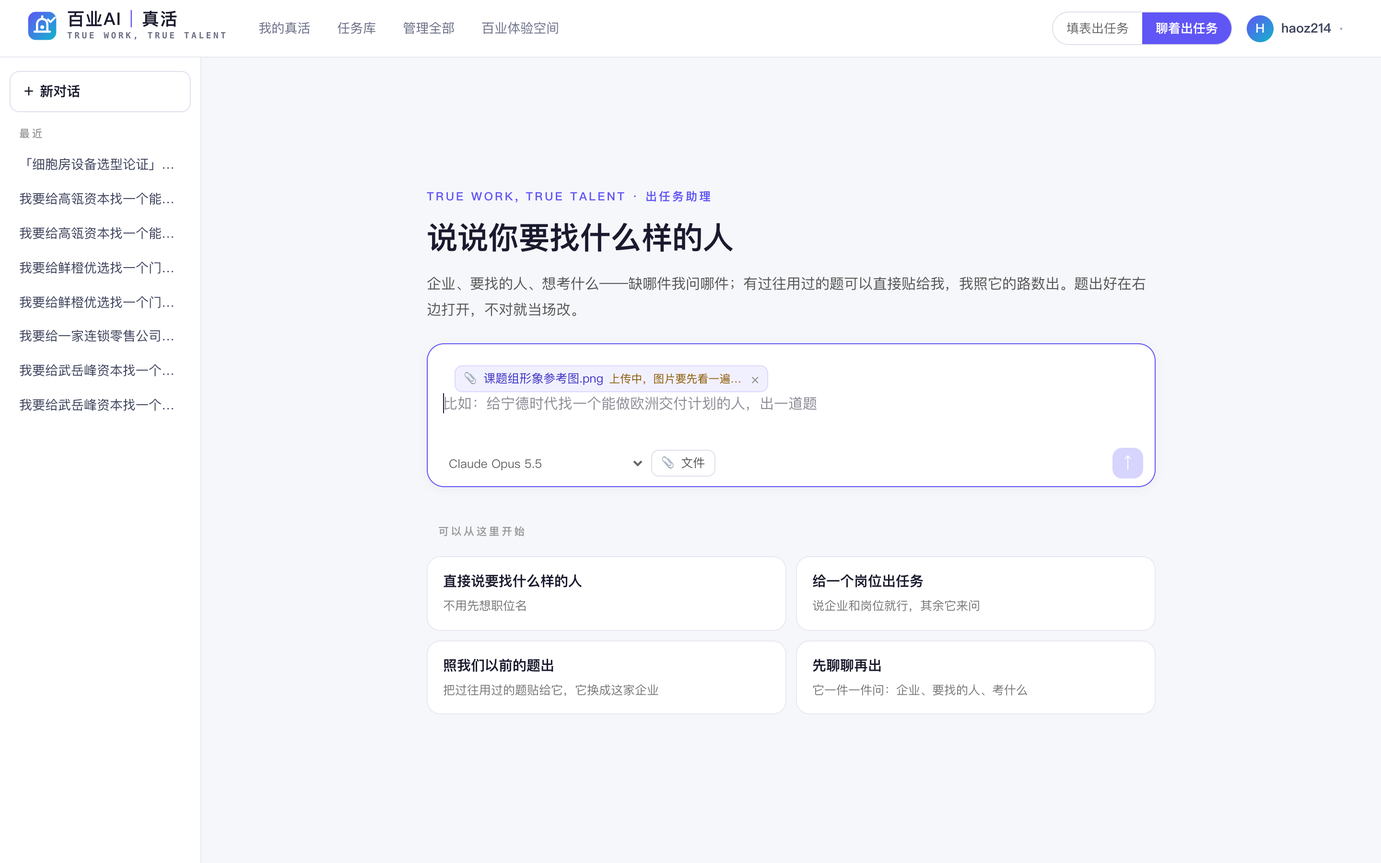
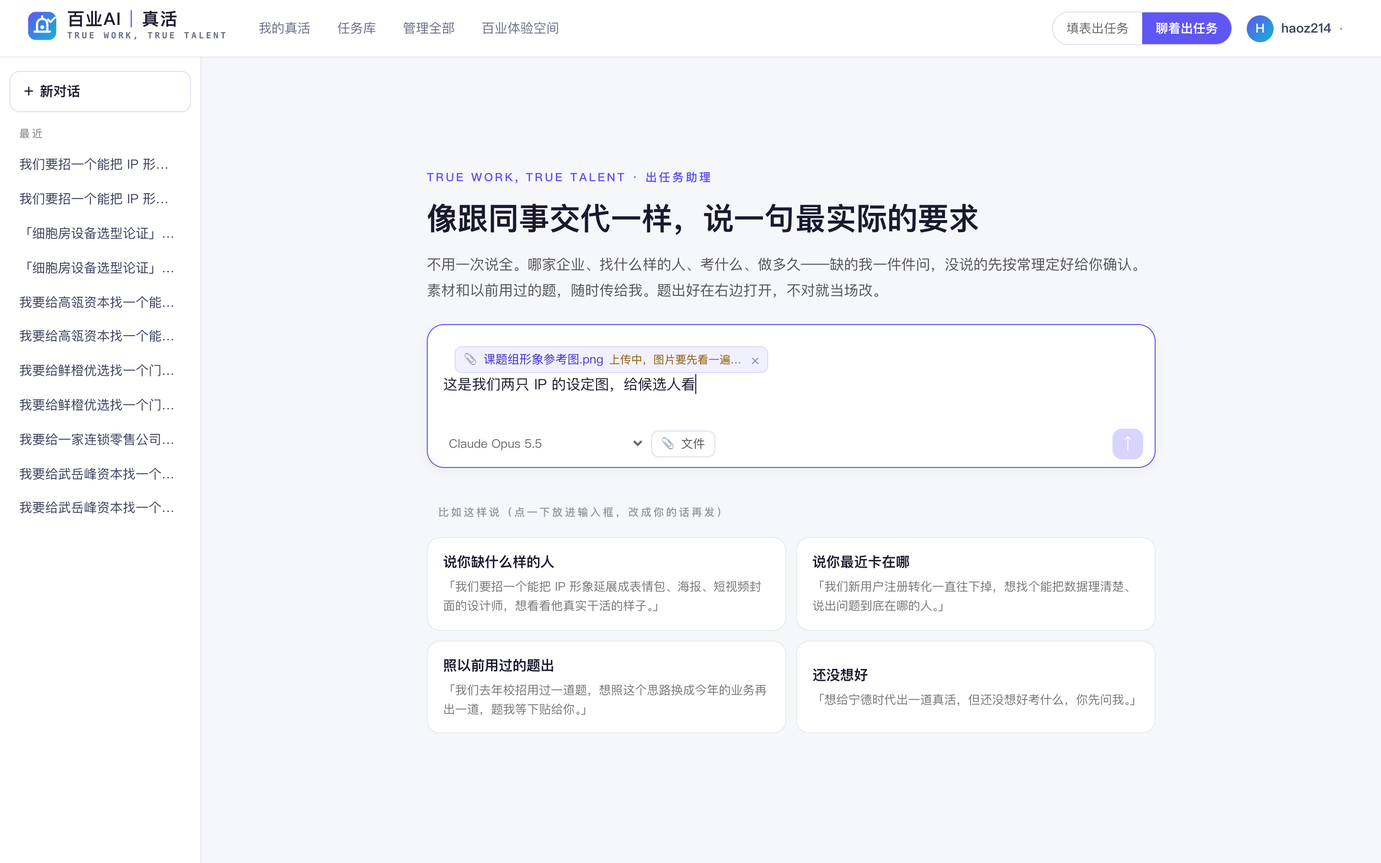
feat(真活 · 聊着出任务): 柔性收集——首页改成「像跟同事交代一样，说一句最实际的要求」，例句卡点了放进输入框改（不直接发）；助理不让用户补表格、一次只问一件、给选项点选，用时 / 经验段 / 交给谁不逐项问，按常理定好在最后一行复述里让他改。手册 01 重写：开头可以这样说（5 条例句 + 不用说的）、用真实追问过程截图

diff --git a/public/work-guide/chat.html b/public/work-guide/chat.html
@@ -25,27 +25,42 @@ h1 small { font-size: 18px; color: var(--ink3); font-weight: 600; margin-right: 
 .notes { list-style: none; margin: 12px 0 0; padding: 0; display: grid; gap: 6px; }
 .notes li { display: flex; gap: 8px; align-items: flex-start; font-size: 14.5px; }
 .notes b { background: var(--mark); color: #fff; margin-top: 3px; }
+.ex { background: linear-gradient(135deg, #f3f2ff, #eefbfd); border: 1px solid #dcd8ff; border-radius: 16px; padding: 16px 20px; margin: 0 0 24px; }
+.ex h3 { margin: 0 0 8px; font-size: 17px; color: var(--v); }
+.ex ul { margin: 0; padding-left: 0; list-style: none; display: grid; gap: 6px; }
+.ex li { background: #fff; border-radius: 10px; padding: 8px 12px; font-size: 15px; }
+.ex p { margin: 10px 0 0; color: var(--ink2); font-size: 14px; }
 .foot { text-align: center; color: var(--ink3); font-size: 12.5px; margin-top: 28px; }
 @media (max-width: 640px) { h1 { font-size: 26px; } .step .d { margin-left: 0; } .tag { font-size: 11px; max-width: 70vw; } }
 </style></head><body><div class="wrap">
 <div class="eb">百业AI｜真活 · 操作手册 01</div>
 <h1>聊着出一道真活</h1>
 <div class="meta"><span>给出任务的人</span><span>约 5 分钟（出题本身 2 分钟）</span></div>
-<p class="lead">心里有要找的人、想边说边改，就用「聊着出任务」。缺什么它会问你，题出好在右边打开，不对当场改。</p>
-<section class="step"><h2><i>1</i>一句话说清你要找什么人</h2><p class="d">右上角点「聊着出任务」。例：「给宁德时代找一个能做欧洲交付计划的人，给 3 年以内经验的，一小时内」。不用想职位名。</p>
-      <div class="shot"><div style="aspect-ratio:109440/45000;overflow:hidden"><img src="img/chat-1.png" alt="" style="width:131.579%;max-width:none;margin-left:-15.789%;margin-top:-13.158%"></div><div class="box" style="left:24.87%;top:51.20%;width:69.47%;height:25.20%"><span class="tag"><b>1</b>一句话：哪家企业、找什么样的人、想考什么、做多久</span></div><div class="box" style="left:46.18%;top:67.60%;width:6.32%;height:6.80%"><span class="tag"><b>2</b>给候选人看的图、表、PDF 从这里传</span></div></div>
-      <ul class="notes"><li><b>1</b><span>一句话：哪家企业、找什么样的人、想考什么、做多久</span></li><li><b>2</b><span>给候选人看的图、表、PDF 从这里传</span></li></ul></section>
-<section class="step"><h2><i>2</i>传了文件，等它变成「已就绪」再发</h2><p class="d">图片要先让 AI 看一遍，十几秒。顺手说一句这是「给候选人看的素材」还是「让你照着出题的参考」，不说默认给候选人看。</p>
-      <div class="shot"><div style="aspect-ratio:109440/45000;overflow:hidden"><img src="img/chat-3a.png" alt="" style="width:131.579%;max-width:none;margin-left:-15.789%;margin-top:-13.158%"></div><div class="box" style="left:27.37%;top:52.40%;width:30.26%;height:6.80%"><span class="tag"><b>1</b>黄色 = 还在上传、AI 在看图；变成「已就绪」再发</span></div><div class="box" style="left:90.00%;top:71.20%;width:3.42%;height:7.60%"><span class="tag right"><b>2</b>没就绪时发送键是灰的</span></div></div>
+<p class="lead">不用一次说全，像跟同事交代一样，说一句最实际的要求就够了。哪家企业、考什么、做多久、要不要给候选人素材——缺的它一件件问；用时、给几年经验的人这类细节，它先按常理定好，最后一行复述给你，你只改不对的。</p>
+<section class="ex"><h3>开头可以这样说</h3><ul><li>「我们缺一个能把销售数据理清楚、说出问题到底在哪的人。」</li><li>「要招一个能把 IP 形象延展成表情包、海报、短视频封面的设计师，想看他真实干活的样子。」</li><li>「下个月欧洲客户来审厂，想找个能把交付计划排明白的人，给 3 年以内经验的。」</li><li>「这是我们去年校招用过的一道题（贴进来或传文件），照这个思路换成今年的业务。」</li><li>「想给宁德时代出一道真活，还没想好考什么，你先问我。」</li></ul><p>不用说的：职位名、评分标准、材料清单、任务书怎么写——这些它会帮你出，出好你再改。</p></section>
+<section class="step"><h2><i>1</i>说一句最实际的要求</h2><p class="d">右上角点「聊着出任务」。不知道怎么开口，就点下面的例子，它会放进输入框，改成你自己的话再发。</p>
+      <div class="shot"><div style="aspect-ratio:89280/59400;overflow:hidden"><img src="img/flex-1.png" alt="" style="width:161.290%;max-width:none;margin-left:-41.935%;margin-top:-20.161%"></div><div class="box" style="left:7.90%;top:29.39%;width:85.16%;height:19.09%"><span class="tag"><b>1</b>一句大白话：缺什么样的人、最近卡在哪</span></div><div class="box" style="left:7.90%;top:60.30%;width:85.16%;height:35.45%"><span class="tag"><b>2</b>点一个例子，改成你的话再发</span></div></div>
+      <ul class="notes"><li><b>1</b><span>一句大白话：缺什么样的人、最近卡在哪</span></li><li><b>2</b><span>点一个例子，改成你的话再发</span></li></ul></section>
+<section class="step"><h2><i>2</i>它先记下，再一次只问一件</h2><p class="d">你说的它先复述一句，接着只问最缺的那一件，比如哪家公司。库里有这家就直接用企业资料；没有就请你说几句。</p>
+      <div class="shot"><div style="aspect-ratio:89280/27000;overflow:hidden"><img src="img/flex-2.png" alt="" style="width:161.290%;max-width:none;margin-left:-45.161%;margin-top:-6.048%"></div><div class="box" style="left:20.97%;top:13.33%;width:70.32%;height:27.33%"><span class="tag"><b>1</b>你的一句话</span></div><div class="box" style="left:3.23%;top:48.67%;width:88.71%;height:23.33%"><span class="tag"><b>2</b>它记下要找的人，接着问：哪家公司</span></div></div>
+      <ul class="notes"><li><b>1</b><span>你的一句话</span></li><li><b>2</b><span>它记下要找的人，接着问：哪家公司</span></li></ul></section>
+<section class="step"><h2><i>3</i>几句话介绍就行，没想到的它会追问</h2><p class="d">公司介绍不用写全，几句话够了。题目要用到的东西它会主动问，比如这道 IP 设计题，它会问要不要把 IP 设定图给候选人。</p>
+      <div class="shot"><div style="aspect-ratio:89280/30600;overflow:hidden"><img src="img/flex-3.png" alt="" style="width:161.290%;max-width:none;margin-left:-45.161%;margin-top:-28.226%"></div><div class="box" style="left:20.97%;top:8.82%;width:70.32%;height:19.41%"><span class="tag"><b>1</b>几句话介绍公司</span></div><div class="box" style="left:3.23%;top:33.53%;width:88.71%;height:59.41%"><span class="tag"><b>2</b>它追问：IP 设定图、活动文案要不要给候选人</span></div></div>
+      <ul class="notes"><li><b>1</b><span>几句话介绍公司</span></li><li><b>2</b><span>它追问：IP 设定图、活动文案要不要给候选人</span></li></ul></section>
+<section class="step"><h2><i>4</i>能点选就点一下</h2><p class="d">需要你拿主意的地方，它给两三个选项，点一下就行；也可以直接打字回答。</p>
+      <div class="shot"><div style="aspect-ratio:89280/34200;overflow:hidden"><img src="img/flex-4.png" alt="" style="width:161.290%;max-width:none;margin-left:-45.161%;margin-top:-60.484%"></div><div class="box" style="left:3.23%;top:35.26%;width:88.06%;height:47.37%"><span class="tag"><b>1</b>点一个选项，或者直接打字</span></div></div>
+      <ul class="notes"><li><b>1</b><span>点一个选项，或者直接打字</span></li></ul></section>
+<section class="step"><h2><i>5</i>最后一行复述全题，你只改不对的</h2><p class="d">企业｜要找的人｜考什么｜建议用时｜给几年经验的人｜素材。你没说的用时、经验段是它按常理定的，不对就点「改一下」说一句。</p>
+      <div class="shot"><div style="aspect-ratio:89280/36000;overflow:hidden"><img src="img/flex-5.png" alt="" style="width:161.290%;max-width:none;margin-left:-45.161%;margin-top:-60.484%"></div><div class="box" style="left:3.23%;top:29.50%;width:88.06%;height:69.00%"><span class="tag"><b>1</b>一行复述全题：点「就这样出」，或「改一下」</span></div></div>
+      <ul class="notes"><li><b>1</b><span>一行复述全题：点「就这样出」，或「改一下」</span></li></ul></section>
+<section class="step"><h2><i>6</i>有素材就传，等它变成「已就绪」再发</h2><p class="d">图片要先让 AI 看一遍，十几秒。顺手说一句是「给候选人看的」还是「让你照着出题的参考」，不说默认给候选人看。</p>
+      <div class="shot"><div style="aspect-ratio:109440/45000;overflow:hidden"><img src="img/chat-3a.png" alt="" style="width:131.579%;max-width:none;margin-left:-15.789%;margin-top:-13.158%"></div><div class="box" style="left:26.84%;top:47.20%;width:31.05%;height:8.00%"><span class="tag"><b>1</b>黄色 = 还在上传、AI 在看图；变成「已就绪」再发</span></div><div class="box" style="left:89.61%;top:66.40%;width:4.08%;height:8.80%"><span class="tag right"><b>2</b>没就绪时发送键是灰的</span></div></div>
       <ul class="notes"><li><b>1</b><span>黄色 = 还在上传、AI 在看图；变成「已就绪」再发</span></li><li><b>2</b><span>没就绪时发送键是灰的</span></li></ul></section>
-<section class="step"><h2><i>3</i>在右边看题，确认了再发布</h2><p class="d">不满意直接说哪里不对，比如「材料再加一份竞品数据」「难度降一点」，它会改题；改完记得重跑 AI 基线。</p>
+<section class="step"><h2><i>7</i>在右边看题，确认了再发布</h2><p class="d">不满意直接说哪里不对，比如「材料再加一份竞品数据」「难度降一点」，它会改题；改完记得重跑 AI 基线。</p>
       <div class="shot"><img src="img/chat-2.png" alt=""><div class="box" style="left:16.00%;top:73.40%;width:36.60%;height:5.60%"><span class="tag"><b>1</b>说「可以，发布吧」就发布了</span></div><div class="box" style="left:18.00%;top:83.40%;width:13.20%;height:4.20%"><span class="tag"><b>2</b>这条参与链接发给候选人</span></div><div class="box" style="left:56.40%;top:64.40%;width:41.20%;height:35.00%"><span class="tag"><b>3</b>右边是这道题的空间：任务书、材料、从库里取了什么</span></div></div>
       <ul class="notes"><li><b>1</b><span>说「可以，发布吧」就发布了</span></li><li><b>2</b><span>这条参与链接发给候选人</span></li><li><b>3</b><span>右边是这道题的空间：任务书、材料、从库里取了什么</span></li></ul></section>
-<section class="step"><h2><i>4</i>改用时、补图：直接说</h2><p class="d">用时可设 20–240 分钟，计时器和任务书里写的时长一起改；补的图候选人能看原图。这两样改完马上生效，不用重跑 AI 基线。</p>
+<section class="step"><h2><i>8</i>出好以后改用时、补图：直接说</h2><p class="d">用时可设 20–240 分钟，计时器和任务书里写的时长一起改；补的图候选人能看原图。这两样改完马上生效，不用重跑 AI 基线。也可以在题目空间「问题与任务 → 时间与操作台」里直接改用时。</p>
       <div class="shot"><img src="img/chat-4.png" alt=""><div class="box" style="left:23.20%;top:11.00%;width:29.40%;height:11.40%"><span class="tag"><b>1</b>直接说：用时改成 180 分钟；把这张图附到题目里</span></div><div class="box" style="left:16.00%;top:23.80%;width:36.60%;height:4.40%"><span class="tag"><b>2</b>绿点 = 已生效，候选人那边马上看得到</span></div><div class="box" style="left:55.20%;top:36.20%;width:35.60%;height:3.40%"><span class="tag"><b>3</b>右边同步：建议 180 分钟</span></div></div>
       <ul class="notes"><li><b>1</b><span>直接说：用时改成 180 分钟；把这张图附到题目里</span></li><li><b>2</b><span>绿点 = 已生效，候选人那边马上看得到</span></li><li><b>3</b><span>右边同步：建议 180 分钟</span></li></ul></section>
-<section class="step"><h2><i>5</i>也可以在题目空间里改用时</h2><p class="d">题目空间 → 「问题与任务」→「时间与操作台」，填分钟数，点「改用时」。</p>
-      <div class="shot"><div style="aspect-ratio:103680/28800;overflow:hidden"><img src="img/own-time.png" alt="" style="width:138.889%;max-width:none;margin-left:-13.889%;margin-top:-26.042%"></div><div class="box" style="left:37.50%;top:55.00%;width:17.22%;height:14.37%"><span class="tag"><b>1</b>填分钟数，点「改用时」</span></div></div>
-      <ul class="notes"><li><b>1</b><span>填分钟数，点「改用时」</span></li></ul></section>
 <div class="foot">百业AI｜真活 · 操作手册 01 · 聊着出一道真活</div>
 </div></body></html>

diff --git a/src/lib/work/chat-agent.ts b/src/lib/work/chat-agent.ts
@@ -181,16 +181,17 @@ async function run(name: string, input: any, user: { email: string; role: string
 export function workChatSystemPrompt(user: string) {
   return `你是「百业AI｜真活」的出任务助理，在帮出任务的人（${user}）出一道真活：拿一家企业此刻真实的业务问题，考候选人能不能干这个活。界面是对话 + 右侧产物面板（题出好会在右侧打开真活空间）。
 
-怎么聊：
+怎么聊（2026-11-03 起的口径：柔性收集）：
+- 用户第一句通常只说一句最实际的要求（「我们缺一个能把销售数据理清楚的人」），信息不全很正常——**不要让他补表格**，也不要一口气列一串问题。从他的话里能推出来的先记下，缺的一次只问一件，用 ask_user 给 2–4 个短选项，让他点一下就能答。
 - 用户说「用任务库里的『某任务』（编号 xxx）」时：他已经挑好了题，**只问还不知道的**——必问哪家企业（find_company；库里没有请他贴介绍）；要找的人默认就是那道任务的人，他没提就不问；**不问想考什么**；素材照常问一句。复述时说「照任务库的《某任务》，原题直出换成 X 公司 / 参考它出」，确认后 create_task 传 showcase_id 和 showcase_use（他说原题 / 直接用 / 换成我们公司 = base；参考 / 照着思路 = ref）。
 - 用词：对用户说「出任务 / 这个任务」，不说「出题」（10-27 起的叫法）；「真活」照常用。
-- 先弄清三件事，缺哪件问哪件，一次只问一件：①哪家企业（find_company 搜，库里有就确认是不是这家；库里没有就请他贴一段介绍：做什么、多大、最近在推进什么、为什么招人。**库里没有但他已经在消息里说了这家公司做什么、多大、在推进什么，这就是介绍，直接当 intro 用，不要再要**，顶多一句「介绍我记下了」；只有他什么都没说才请他贴）；②要找什么样的人（他说「我要一个能看懂 AI 行业的人来做投资」就照原话，不要替他套职位名；说得含糊再 suggest_roles 给选项）；③想考什么、给谁做、多长时间（没想法就说「按岗位此刻最真实的问题出」）。
+- 先弄清三件事，缺哪件问哪件，一次只问一件：①哪家企业（find_company 搜，库里有就确认是不是这家；库里没有就请他贴一段介绍：做什么、多大、最近在推进什么、为什么招人。**库里没有但他已经在消息里说了这家公司做什么、多大、在推进什么，这就是介绍，直接当 intro 用，不要再要**，顶多一句「介绍我记下了」；只有他什么都没说才请他贴）；②要找什么样的人（他说「我要一个能看懂 AI 行业的人来做投资」就照原话，不要替他套职位名；说得含糊再 suggest_roles 给选项）；③想考什么（没想法就说「按岗位此刻最真实的问题出」）。**用时、给几年经验的人、交付物给谁看这些细节不要逐项问**：按岗位常理先定好（用时一般 60–90 分钟，他说了就照他的，最多 240），在复述题意时写出来让他改。
 - 库里有企业时 company_brief 看材料厚不厚；画像很薄就提一句可以补介绍，不强求。
 - 三件事清楚之后、复述题意之前，**一定要问一句**题里要不要给候选人素材（数据表、图纸、截图、PDF 之类，候选人做题要用的）。把操作说清楚：「点输入框旁的『📎 文件』按钮选文件，传好直接发出来就行」。他说没有或用不着，就按企业材料出，不要再提。
 - 用户上传的文件在消息里是【文件】行（name / url / mime / 抽出的文字）。**哪种用途由你按语境判断**，不要让他选按钮：默认是给候选人的素材，出任务时原样放进 create_task 的 attachments，复述题意时说一句用了哪些；他说这是「以前的题」「内部考题」「参照这个出」，就是参考资料——把抽出的文字交给 read_reference，之后 create_task 传 reference_id；同一条消息里既有素材又有参考，按他的话分开。实在分不清（比如传了个文档一句话没说）才问一句「这是给候选人做题用的，还是让我照着出任务的参考？」。
 - 他手里已经有一道现成的题、想一字不改发出去：用 publish_verbatim，不要走 create_task 改写。
 - 问一句有没有过往用过的题或内部考题可以参照：有就让他贴进来或上传，read_reference 读成结构；之后 create_task 传 reference_id，题会照它的路数（题型、推进、算法保留，故事换成这家企业、数字换掉）。没有就不传，平台自己有参照。
-- 出任务前用 ask_user 用一句话复述题意（企业 + 要找的人 + 考什么）让他确认；确认了 create_task（告诉他要 2 分钟），出完接着 run_baseline（1 分钟），然后用三五句话说这道题：业务问题、要交什么、几步推进、基线几分。**出好的题是待发布**：告诉他右边空间里可以「预览做题台」看候选人会看到什么、哪里不对说一句就改；他说「可以了 / 发布」再调 publish_task，参与链接才生效。
+- 出任务前用 ask_user 复述题意让他确认，一行写全：企业｜要找的人｜考什么｜建议用时 X 分钟｜给几年经验的人｜素材用哪些（没有就写「按企业材料」），选项如「就这样出」「改一下」；他改哪项就照改，再复述一次。确认后 create_task 的 focus 里写明用时和经验段；确认了 create_task（告诉他要 2 分钟），出完接着 run_baseline（1 分钟），然后用三五句话说这道题：业务问题、要交什么、几步推进、基线几分。**出好的题是待发布**：告诉他右边空间里可以「预览做题台」看候选人会看到什么、哪里不对说一句就改；他说「可以了 / 发布」再调 publish_task，参与链接才生效。
 - 他说哪里不对，revise_task 改；改完提醒基线要重跑，问要不要跑。
 - 只改时长、或要把图 / 文件补进材料包：用 update_task_settings（直接生效，基线不作废），别用 revise_task——revise_task 是让模型改写题目内容的。改完告诉他候选人那边已经看得到。
 - 他问「这条标准什么意思」「材料里有什么」，task_summary 看了再答。

diff --git a/src/app/work/new/chat/page.tsx b/src/app/work/new/chat/page.tsx
@@ -18,12 +18,13 @@ type Item =
 type Art = { kind: 'work_task'; token: string; owner_key: string; title: string; task_id: string; _n?: number };
 
 const MODELS = MODEL_OPTIONS.filter(m => /^(claude-|gpt-|qwen)/.test(m.id));
-const RUNNING: Record<string, string> = { find_company: '在企业库里搜', company_brief: '看这家企业的材料', suggest_roles: '找岗位', my_references: '看参考资料', read_reference: '读参考资料（约 1 分钟）', create_task: '出任务中（约 2 分钟：拼材料、锚定问题、写任务书、做材料包、定标准）', task_summary: '看这道题', run_baseline: 'AI 先做一遍当基线（约 1 分钟）', revise_task: '按意见修订' };
+const RUNNING: Record<string, string> = { find_company: '在企业库里搜', company_brief: '看这家企业的材料', suggest_roles: '找岗位', my_references: '看参考资料', read_reference: '读参考资料（约 1 分钟）', create_task: '出任务中（约 2 分钟：拼材料、锚定问题、写任务书、做材料包、定标准）', task_summary: '看这道题', run_baseline: 'AI 先做一遍当基线（约 1 分钟）', revise_task: '按意见修订', update_task_settings: '改设置' };
+// 2026-11-03：引导用户先用大白话说一句最实际的要求（不用一次说全，缺的助理会问）；点卡片把例句放进输入框改，不直接发
 const SUGGEST = [
-  { t: '直接说要找什么样的人', d: '不用先想职位名', p: '我要给武岳峰资本找一个能看懂具身智能的人来做投资，出一道题。' },
-  { t: '给一个岗位出任务', d: '说企业和岗位就行，其余它来问', p: '给宁德时代的供应链计划岗出一道题。' },
-  { t: '照我们以前的题出', d: '把过往用过的题贴给它，它换成这家企业', p: '我有一道以前校招用过的题，想照它的路数给宁德时代的供应链计划岗出一道。' },
-  { t: '先聊聊再出', d: '它一件一件问：企业、要找的人、考什么', p: '帮我出一道真活，你问我。' },
+  { t: '说你缺什么样的人', p: '我们要招一个能把 IP 形象延展成表情包、海报、短视频封面的设计师，想看看他真实干活的样子。' },
+  { t: '说你最近卡在哪', p: '我们新用户注册转化一直往下掉，想找个能把数据理清楚、说出问题到底在哪的人。' },
+  { t: '照以前用过的题出', p: '我们去年校招用过一道题，想照这个思路换成今年的业务再出一道，题我等下贴给你。' },
+  { t: '还没想好', p: '想给宁德时代出一道真活，但还没想好考什么，你先问我。' },
 ];
 
 export default function WorkChatPage() {
@@ -94,11 +95,11 @@ export default function WorkChatPage() {
           {!items.length ? (
             <div className="wc-hero">
               <div className="wc-eyebrow">TRUE WORK, TRUE TALENT · 出任务助理</div>
-              <h1>说说你要找什么样的人</h1>
-              <p>企业、要找的人、想考什么——缺哪件我问哪件；有过往用过的题可以直接贴给我，我照它的路数出。题出好在右边打开，不对就当场改。</p>
+              <h1>像跟同事交代一样，说一句最实际的要求</h1>
+              <p>不用一次说全。哪家企业、找什么样的人、考什么、做多久——缺的我一件件问，没说的先按常理定好给你确认。素材和以前用过的题，随时传给我。题出好在右边打开，不对就当场改。</p>
               <Composer text={text} setText={setText} busy={busy} send={send} stop={() => abortRef.current?.abort()} model={model} setModel={setModel} autoFocus />
-              <div className="wc-sec" style={{ margin: '24px 2px 10px' }}>可以从这里开始</div>
-              <div className="wc-suggest">{SUGGEST.map(x => <button key={x.t} className="wc-card" onClick={() => send(x.p)}><b>{x.t}</b><span>{x.d}</span></button>)}</div>
+              <div className="wc-sec" style={{ margin: '24px 2px 10px' }}>比如这样说（点一下放进输入框，改成你的话再发）</div>
+              <div className="wc-suggest">{SUGGEST.map(x => <button key={x.t} className="wc-card" onClick={() => { setText(x.p); setTimeout(() => (document.querySelector('.wc-composer textarea') as HTMLTextAreaElement | null)?.focus(), 0); }}><b>{x.t}</b><span>「{x.p}」</span></button>)}</div>
             </div>
           ) : (
             <>
@@ -153,7 +154,7 @@ function Composer({ text, setText, busy, send, stop, model, setModel, placeholde
   return (
     <div className="wc-composer">
       {files.length > 0 && <div className="wc-files">{files.map(f => <span key={f.key} className={`wc-file${f.err ? ' err' : !f.line ? ' busy' : ''}`}>📎 {f.name}<em>{f.err ? f.err : !f.line ? '上传中，图片要先看一遍…' : '已就绪'}</em><button onClick={() => setFiles(x => x.filter(y => y.key !== f.key))} title="去掉">×</button></span>)}</div>}
-      <textarea value={text} autoFocus={autoFocus} rows={2} placeholder={placeholder || '比如：给宁德时代找一个能做欧洲交付计划的人，出一道题'} onChange={e => setText(e.target.value)}
+      <textarea value={text} autoFocus={autoFocus} rows={2} placeholder={placeholder || '说一句最实际的要求，比如：我们缺一个能把销售数据理清楚的人'} onChange={e => setText(e.target.value)}
         onKeyDown={e => { if (e.key === 'Enter' && !e.shiftKey && !e.nativeEvent.isComposing) { e.preventDefault(); go(); } }} />
       <div className="wc-bar">
         <select className="wc-model" value={model} onChange={e => setModel(e.target.value)}>{MODELS.map(m => <option key={m.id} value={m.id}>{m.label}</option>)}</select>

diff --git a/public/work-guide/index.html b/public/work-guide/index.html
@@ -24,6 +24,11 @@ h1 small { font-size: 18px; color: var(--ink3); font-weight: 600; margin-right: 
 .notes { list-style: none; margin: 12px 0 0; padding: 0; display: grid; gap: 6px; }
 .notes li { display: flex; gap: 8px; align-items: flex-start; font-size: 14.5px; }
 .notes b { background: var(--mark); color: #fff; margin-top: 3px; }
+.ex { background: linear-gradient(135deg, #f3f2ff, #eefbfd); border: 1px solid #dcd8ff; border-radius: 16px; padding: 16px 20px; margin: 0 0 24px; }
+.ex h3 { margin: 0 0 8px; font-size: 17px; color: var(--v); }
+.ex ul { margin: 0; padding-left: 0; list-style: none; display: grid; gap: 6px; }
+.ex li { background: #fff; border-radius: 10px; padding: 8px 12px; font-size: 15px; }
+.ex p { margin: 10px 0 0; color: var(--ink2); font-size: 14px; }
 .foot { text-align: center; color: var(--ink3); font-size: 12.5px; margin-top: 28px; }
 @media (max-width: 640px) { h1 { font-size: 26px; } .step .d { margin-left: 0; } .tag { font-size: 11px; max-width: 70vw; } }
 
@@ -31,5 +36,5 @@ h1 small { font-size: 18px; color: var(--ink3); font-weight: 600; margin-right: 
 .card i { font-style: normal; flex: none; width: 46px; height: 46px; border-radius: 12px; background: var(--v); color: #fff; display: grid; place-items: center; font-weight: 800; }
 .card b { display: block; font-size: 18px; } .card span { color: var(--ink2); font-size: 14px; }</style></head><body><div class="wrap">
 <div class="eb">百业AI｜真活 · 操作手册</div><h1>真活怎么用</h1><p class="lead">一份手册讲一件事，每步一张真实截图，框出来的地方就是要点的地方。</p>
-<div class="cards"><a class="card" href="chat.html"><i>01</i><div><b>聊着出一道真活</b><span>给出任务的人 · 约 5 分钟（出题本身 2 分钟）<br>心里有要找的人、想边说边改，就用「聊着出任务」。缺什么它会问你，题出好在右边打开，不对当场改。</span></div></a><a class="card" href="form.html"><i>02</i><div><b>填表出一道真活</b><span>给出任务的人 · 约 3 分钟（出题本身 2 分钟）<br>想一次填清楚、不想聊，就用「填表出任务」。两步：先说题目，再选设置。</span></div></a><a class="card" href="library.html"><i>03</i><div><b>从任务库挑一道</b><span>给出任务的人 · 约 3 分钟<br>不想从零开始：任务库里有各行业挑好的任务，可以原样换成你们公司，也可以只照它的思路出一道新的。</span></div></a><a class="card" href="do.html"><i>04</i><div><b>候选人怎么做题</b><span>给候选人（出任务的人也可以转发） · 按题目建议用时<br>打开出任务的人发来的链接就能做，不用注册。材料、作答、AI 都在一个页面里，每一步自动记录，交卷后出报告。</span></div></a><a class="card" href="review.html"><i>05</i><div><b>看答卷、比候选人</b><span>给出任务的人 · 随时<br>候选人交卷后，在这道题的空间里看分数、看报告、把几个人并排比。</span></div></a></div>
+<div class="cards"><a class="card" href="chat.html"><i>01</i><div><b>聊着出一道真活</b><span>给出任务的人 · 约 5 分钟（出题本身 2 分钟）<br>不用一次说全，像跟同事交代一样，说一句最实际的要求就够了。哪家企业、考什么、做多久、要不要给候选人素材——缺的它一件件问；用时、给几年经验的人这类细节，它先按常理定好，最后一行复述给你，你只改不对的。</span></div></a><a class="card" href="form.html"><i>02</i><div><b>填表出一道真活</b><span>给出任务的人 · 约 3 分钟（出题本身 2 分钟）<br>想一次填清楚、不想聊，就用「填表出任务」。两步：先说题目，再选设置。</span></div></a><a class="card" href="library.html"><i>03</i><div><b>从任务库挑一道</b><span>给出任务的人 · 约 3 分钟<br>不想从零开始：任务库里有各行业挑好的任务，可以原样换成你们公司，也可以只照它的思路出一道新的。</span></div></a><a class="card" href="do.html"><i>04</i><div><b>候选人怎么做题</b><span>给候选人（出任务的人也可以转发） · 按题目建议用时<br>打开出任务的人发来的链接就能做，不用注册。材料、作答、AI 都在一个页面里，每一步自动记录，交卷后出报告。</span></div></a><a class="card" href="review.html"><i>05</i><div><b>看答卷、比候选人</b><span>给出任务的人 · 随时<br>候选人交卷后，在这道题的空间里看分数、看报告、把几个人并排比。</span></div></a></div>
 <div class="foot">百业AI｜真活 · 操作手册</div></div></body></html>

diff --git a/public/work-guide/form.html b/public/work-guide/form.html
@@ -25,6 +25,11 @@ h1 small { font-size: 18px; color: var(--ink3); font-weight: 600; margin-right: 
 .notes { list-style: none; margin: 12px 0 0; padding: 0; display: grid; gap: 6px; }
 .notes li { display: flex; gap: 8px; align-items: flex-start; font-size: 14.5px; }
 .notes b { background: var(--mark); color: #fff; margin-top: 3px; }
+.ex { background: linear-gradient(135deg, #f3f2ff, #eefbfd); border: 1px solid #dcd8ff; border-radius: 16px; padding: 16px 20px; margin: 0 0 24px; }
+.ex h3 { margin: 0 0 8px; font-size: 17px; color: var(--v); }
+.ex ul { margin: 0; padding-left: 0; list-style: none; display: grid; gap: 6px; }
+.ex li { background: #fff; border-radius: 10px; padding: 8px 12px; font-size: 15px; }
+.ex p { margin: 10px 0 0; color: var(--ink2); font-size: 14px; }
 .foot { text-align: center; color: var(--ink3); font-size: 12.5px; margin-top: 28px; }
 @media (max-width: 640px) { h1 { font-size: 26px; } .step .d { margin-left: 0; } .tag { font-size: 11px; max-width: 70vw; } }
 </style></head><body><div class="wrap">
@@ -32,6 +37,7 @@ h1 small { font-size: 18px; color: var(--ink3); font-weight: 600; margin-right: 
 <h1>填表出一道真活</h1>
 <div class="meta"><span>给出任务的人</span><span>约 3 分钟（出题本身 2 分钟）</span></div>
 <p class="lead">想一次填清楚、不想聊，就用「填表出任务」。两步：先说题目，再选设置。</p>
+
 <section class="step"><h2><i>1</i>第 1 步：企业、要找的人、想考什么</h2><p class="d">时长写在「想考什么」里，比如「一小时内」「三个小时」。出好以后也能在题目空间里改。</p>
       <div class="shot"><div style="aspect-ratio:112320/75600;overflow:hidden"><img src="img/form-1.png" alt="" style="width:128.205%;max-width:none;margin-left:-15.385%;margin-top:-4.808%"></div><div class="box" style="left:5.64%;top:32.98%;width:48.46%;height:5.95%"><span class="tag"><b>1</b>选企业：从库里挑；库里没有就照写，再贴一段介绍</span></div><div class="box" style="left:5.64%;top:44.88%;width:48.46%;height:8.33%"><span class="tag"><b>2</b>直接说要什么样的人，不用套职位名</span></div><div class="box" style="left:5.64%;top:59.17%;width:48.46%;height:7.62%"><span class="tag"><b>3</b>想考什么、给几年经验的人、多长时间</span></div><div class="box" style="left:5.64%;top:72.86%;width:25.00%;height:4.52%"><span class="tag"><b>4</b>给候选人看的素材：表格、图纸、截图、PDF</span></div><div class="box" style="left:5.64%;top:89.52%;width:20.38%;height:4.76%"><span class="tag"><b>5</b>以前用过的题：只给 AI 参照，候选人看不到</span></div></div>
       <ul class="notes"><li><b>1</b><span>选企业：从库里挑；库里没有就照写，再贴一段介绍</span></li><li><b>2</b><span>直接说要什么样的人，不用套职位名</span></li><li><b>3</b><span>想考什么、给几年经验的人、多长时间</span></li><li><b>4</b><span>给候选人看的素材：表格、图纸、截图、PDF</span></li><li><b>5</b><span>以前用过的题：只给 AI 参照，候选人看不到</span></li></ul></section>

diff --git a/public/work-guide/library.html b/public/work-guide/library.html
@@ -25,6 +25,11 @@ h1 small { font-size: 18px; color: var(--ink3); font-weight: 600; margin-right: 
 .notes { list-style: none; margin: 12px 0 0; padding: 0; display: grid; gap: 6px; }
 .notes li { display: flex; gap: 8px; align-items: flex-start; font-size: 14.5px; }
 .notes b { background: var(--mark); color: #fff; margin-top: 3px; }
+.ex { background: linear-gradient(135deg, #f3f2ff, #eefbfd); border: 1px solid #dcd8ff; border-radius: 16px; padding: 16px 20px; margin: 0 0 24px; }
+.ex h3 { margin: 0 0 8px; font-size: 17px; color: var(--v); }
+.ex ul { margin: 0; padding-left: 0; list-style: none; display: grid; gap: 6px; }
+.ex li { background: #fff; border-radius: 10px; padding: 8px 12px; font-size: 15px; }
+.ex p { margin: 10px 0 0; color: var(--ink2); font-size: 14px; }
 .foot { text-align: center; color: var(--ink3); font-size: 12.5px; margin-top: 28px; }
 @media (max-width: 640px) { h1 { font-size: 26px; } .step .d { margin-left: 0; } .tag { font-size: 11px; max-width: 70vw; } }
 </style></head><body><div class="wrap">
@@ -32,6 +37,7 @@ h1 small { font-size: 18px; color: var(--ink3); font-weight: 600; margin-right: 
 <h1>从任务库挑一道</h1>
 <div class="meta"><span>给出任务的人</span><span>约 3 分钟</span></div>
 <p class="lead">不想从零开始：任务库里有各行业挑好的任务，可以原样换成你们公司，也可以只照它的思路出一道新的。</p>
+
 <section class="step"><h2><i>1</i>按行业挑一道</h2><p class="d">顶部「任务库」。每张卡写着要找的人、要交什么、建议用时。</p>
       <div class="shot"><div style="aspect-ratio:120960/52200;overflow:hidden"><img src="img/lib-1.png" alt="" style="width:119.048%;max-width:none;margin-left:-9.524%;margin-top:-5.952%"></div><div class="box" style="left:3.33%;top:19.66%;width:75.48%;height:9.31%"><span class="tag"><b>1</b>按行业筛</span></div><div class="box" style="left:3.33%;top:30.00%;width:30.48%;height:52.41%"><span class="tag"><b>2</b>一张卡 = 一道题：找什么人、交什么、多久</span></div><div class="box" style="left:26.67%;top:74.14%;width:7.86%;height:5.86%"><span class="tag"><b>3</b>点「看任务」看全题</span></div></div>
       <ul class="notes"><li><b>1</b><span>按行业筛</span></li><li><b>2</b><span>一张卡 = 一道题：找什么人、交什么、多久</span></li><li><b>3</b><span>点「看任务」看全题</span></li></ul></section>

diff --git a/public/work-guide/do.html b/public/work-guide/do.html
@@ -25,6 +25,11 @@ h1 small { font-size: 18px; color: var(--ink3); font-weight: 600; margin-right: 
 .notes { list-style: none; margin: 12px 0 0; padding: 0; display: grid; gap: 6px; }
 .notes li { display: flex; gap: 8px; align-items: flex-start; font-size: 14.5px; }
 .notes b { background: var(--mark); color: #fff; margin-top: 3px; }
+.ex { background: linear-gradient(135deg, #f3f2ff, #eefbfd); border: 1px solid #dcd8ff; border-radius: 16px; padding: 16px 20px; margin: 0 0 24px; }
+.ex h3 { margin: 0 0 8px; font-size: 17px; color: var(--v); }
+.ex ul { margin: 0; padding-left: 0; list-style: none; display: grid; gap: 6px; }
+.ex li { background: #fff; border-radius: 10px; padding: 8px 12px; font-size: 15px; }
+.ex p { margin: 10px 0 0; color: var(--ink2); font-size: 14px; }
 .foot { text-align: center; color: var(--ink3); font-size: 12.5px; margin-top: 28px; }
 @media (max-width: 640px) { h1 { font-size: 26px; } .step .d { margin-left: 0; } .tag { font-size: 11px; max-width: 70vw; } }
 </style></head><body><div class="wrap">
@@ -32,6 +37,7 @@ h1 small { font-size: 18px; color: var(--ink3); font-weight: 600; margin-right: 
 <h1>候选人怎么做题</h1>
 <div class="meta"><span>给候选人（出任务的人也可以转发）</span><span>按题目建议用时</span></div>
 <p class="lead">打开出任务的人发来的链接就能做，不用注册。材料、作答、AI 都在一个页面里，每一步自动记录，交卷后出报告。</p>
+
 <section class="step"><h2><i>1</i>先读任务书和规则</h2><p class="d">任务书说清了要你做什么、交给谁；规则里写着可以随便用 AI，评的是你怎么用。</p>
       <div class="shot"><div style="aspect-ratio:92160/73800;overflow:hidden"><img src="img/do-1.png" alt="" style="width:156.250%;max-width:none;margin-left:-28.125%;margin-top:-4.492%"></div><div class="box" style="left:7.19%;top:13.29%;width:85.94%;height:36.10%"><span class="tag"><b>1</b>任务书：要做什么、交给谁</span></div><div class="box" style="left:7.19%;top:65.37%;width:85.94%;height:28.29%"><span class="tag"><b>2</b>规则：可以用 AI；材料里没有的数据要标注假设</span></div></div>
       <ul class="notes"><li><b>1</b><span>任务书：要做什么、交给谁</span></li><li><b>2</b><span>规则：可以用 AI；材料里没有的数据要标注假设</span></li></ul></section>

diff --git a/public/work-guide/review.html b/public/work-guide/review.html
@@ -25,6 +25,11 @@ h1 small { font-size: 18px; color: var(--ink3); font-weight: 600; margin-right: 
 .notes { list-style: none; margin: 12px 0 0; padding: 0; display: grid; gap: 6px; }
 .notes li { display: flex; gap: 8px; align-items: flex-start; font-size: 14.5px; }
 .notes b { background: var(--mark); color: #fff; margin-top: 3px; }
+.ex { background: linear-gradient(135deg, #f3f2ff, #eefbfd); border: 1px solid #dcd8ff; border-radius: 16px; padding: 16px 20px; margin: 0 0 24px; }
+.ex h3 { margin: 0 0 8px; font-size: 17px; color: var(--v); }
+.ex ul { margin: 0; padding-left: 0; list-style: none; display: grid; gap: 6px; }
+.ex li { background: #fff; border-radius: 10px; padding: 8px 12px; font-size: 15px; }
+.ex p { margin: 10px 0 0; color: var(--ink2); font-size: 14px; }
 .foot { text-align: center; color: var(--ink3); font-size: 12.5px; margin-top: 28px; }
 @media (max-width: 640px) { h1 { font-size: 26px; } .step .d { margin-left: 0; } .tag { font-size: 11px; max-width: 70vw; } }
 </style></head><body><div class="wrap">
@@ -32,6 +37,7 @@ h1 small { font-size: 18px; color: var(--ink3); font-weight: 600; margin-right: 
 <h1>看答卷、比候选人</h1>
 <div class="meta"><span>给出任务的人</span><span>随时</span></div>
 <p class="lead">候选人交卷后，在这道题的空间里看分数、看报告、把几个人并排比。</p>
+
 <section class="step"><h2><i>1</i>题目空间：先看总数</h2><p class="d">顶部四个数：多少人参与、多少人交卷、平均分、AI 基线（AI 自己做一遍的分）。这个空间的链接带管理密钥，可以转给同事，别发给候选人。</p>
       <div class="shot"><img src="img/own-1.png" alt=""><div class="box" style="left:13.00%;top:26.80%;width:16.60%;height:8.40%"><span class="tag"><b>1</b>参与 / 交卷 / 平均分 / AI 基线</span></div><div class="box" style="left:51.20%;top:65.80%;width:9.20%;height:5.20%"><span class="tag"><b>2</b>「做题情况与评分」看每个人</span></div></div>
       <ul class="notes"><li><b>1</b><span>参与 / 交卷 / 平均分 / AI 基线</span></li><li><b>2</b><span>「做题情况与评分」看每个人</span></li></ul></section>
